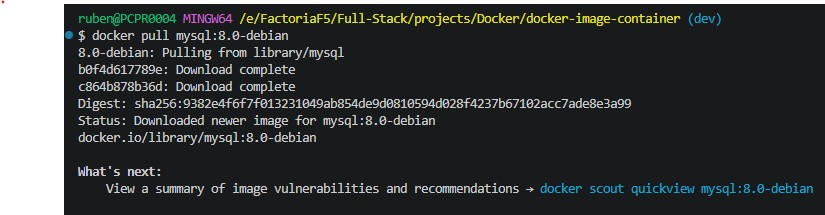
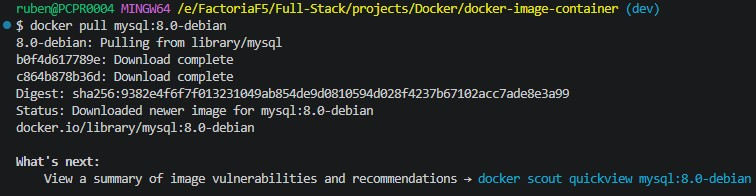
add images, docker container and documentation update

Changed region(s): [[0.0, 0.0, 1.0, 1.0]]

diff --git a/README.md b/README.md
@@ -25,3 +25,20 @@ Dentro del desarrollo del ejercicio se intentará trabajar de forma rigurosa los
 Para esto, vamos a ejecutar el comando: `docker pull mysql:8.0-debian`
 
 ![Importación imagen](./src/assets/Añadir-imagen.jpg)
+
+2- Generar un container utilizando la imagen que hemos importado:
+    - `docker run --name nombre-proyecto -e MYSQL_ROOT_PASSWORD=contraseña -d mysql:8.0-debian`
+
+### Explicación de comando
+docker | Ejecuta el cliente de Docker
+run | Crea e inicial un nuevo contenedor a partir de una imagen
+--name nombre-proyecto | Asigna nombre al contenedor
+-e MYSQL_ROOT_PASSWORD=contraseña | Define la variable de entorno como MYSQL_ROOT_PASSWORD y establece una contraseña del usuario root de MySQL
+-d Ejecuta el contenedor en modo detached (segundo plano)
+ mysql:tag | Especifica la imagen y su versión (tag) que se utilizará para crear el contenedor
+
+![Añadir container](/src/assets/Añadir-container.jpg)
+
+Nota: Puedes apoyarte de los siguientes comandos para saber que imagenes o containers tienes:
+`docker images` - imágenes
+`docker ps`- contenedores
